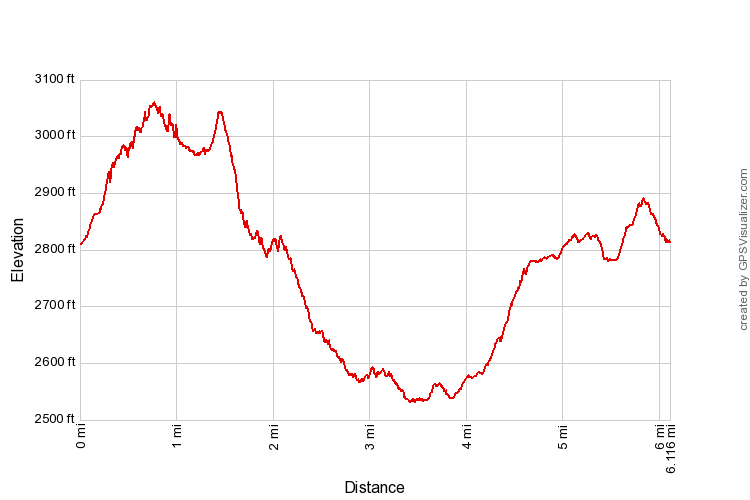
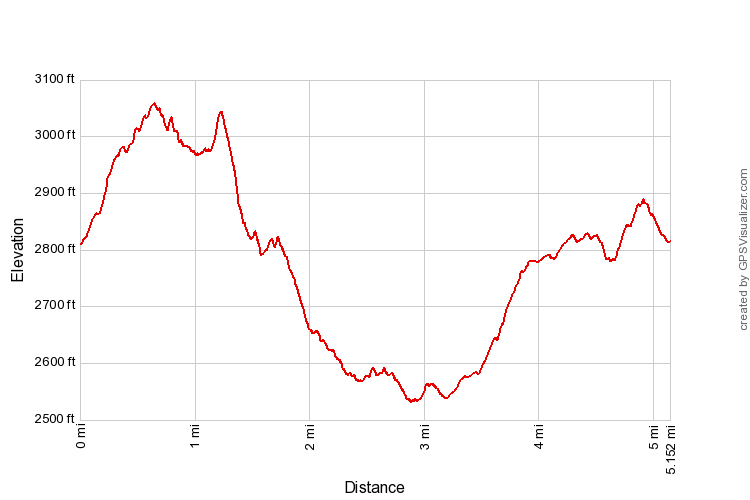
Update Bridal Veil Falls with smoothed data

diff --git a/Statistics/Bridal-Veil-Falls-via-Mine-Mt-12-02-2021.html b/Statistics/Bridal-Veil-Falls-via-Mine-Mt-12-02-2021.html
@@ -12,33 +12,33 @@
 
 <tr>
     <td>Total distance:</td>
-    <td>9.83 km (6.11 mi)</td>
+    <td>8.29 km (5.15 mi)</td>
 </tr>
 <tr>
     <td>Total time:</td>
-    <td>3:46:56</td>
+    <td>3:47:31</td>
 </tr>
 <tr>
     <td>Moving time:</td>
-    <td>3:15:28</td>
+    <td>3:16:03</td>
 </tr>
 <tr>
     <td>Average speed:</td>
-    <td>2.6 km/h (1.62 mi/h)</td>
+    <td>2.19 km/h (1.4 mi/h)</td>
 </tr>
 <tr>
     <td>Average Moving speed:</td>
-    <td>3.02 km/h (1.88 mi/h)</td>
+    <td>2.54 km/h (1.6 mi/h)</td>
 </tr>
 <tr>
     <td>Average pace:</td>
-    <td>23:05 min/km (37:08 min/mi)</td>
+    <td>27:28 min/km (44:12 min/mi)</td>
 </tr>
 <tr>
     <td>Average moving pace:</td>
-    <td>19:53 min/km (31:59 min/mi)</td>
+    <td>23:40 min/km (38:05 min/mi)</td>
 </tr>
-</table><p class="regular-bold-text">Recording started at: 12/2/2021 10:10 AM</p>
+</table><p class="regular-bold-text">Recording started at: 12/02/2021 10:10 AM</p>
 
 </body>
 </html>
